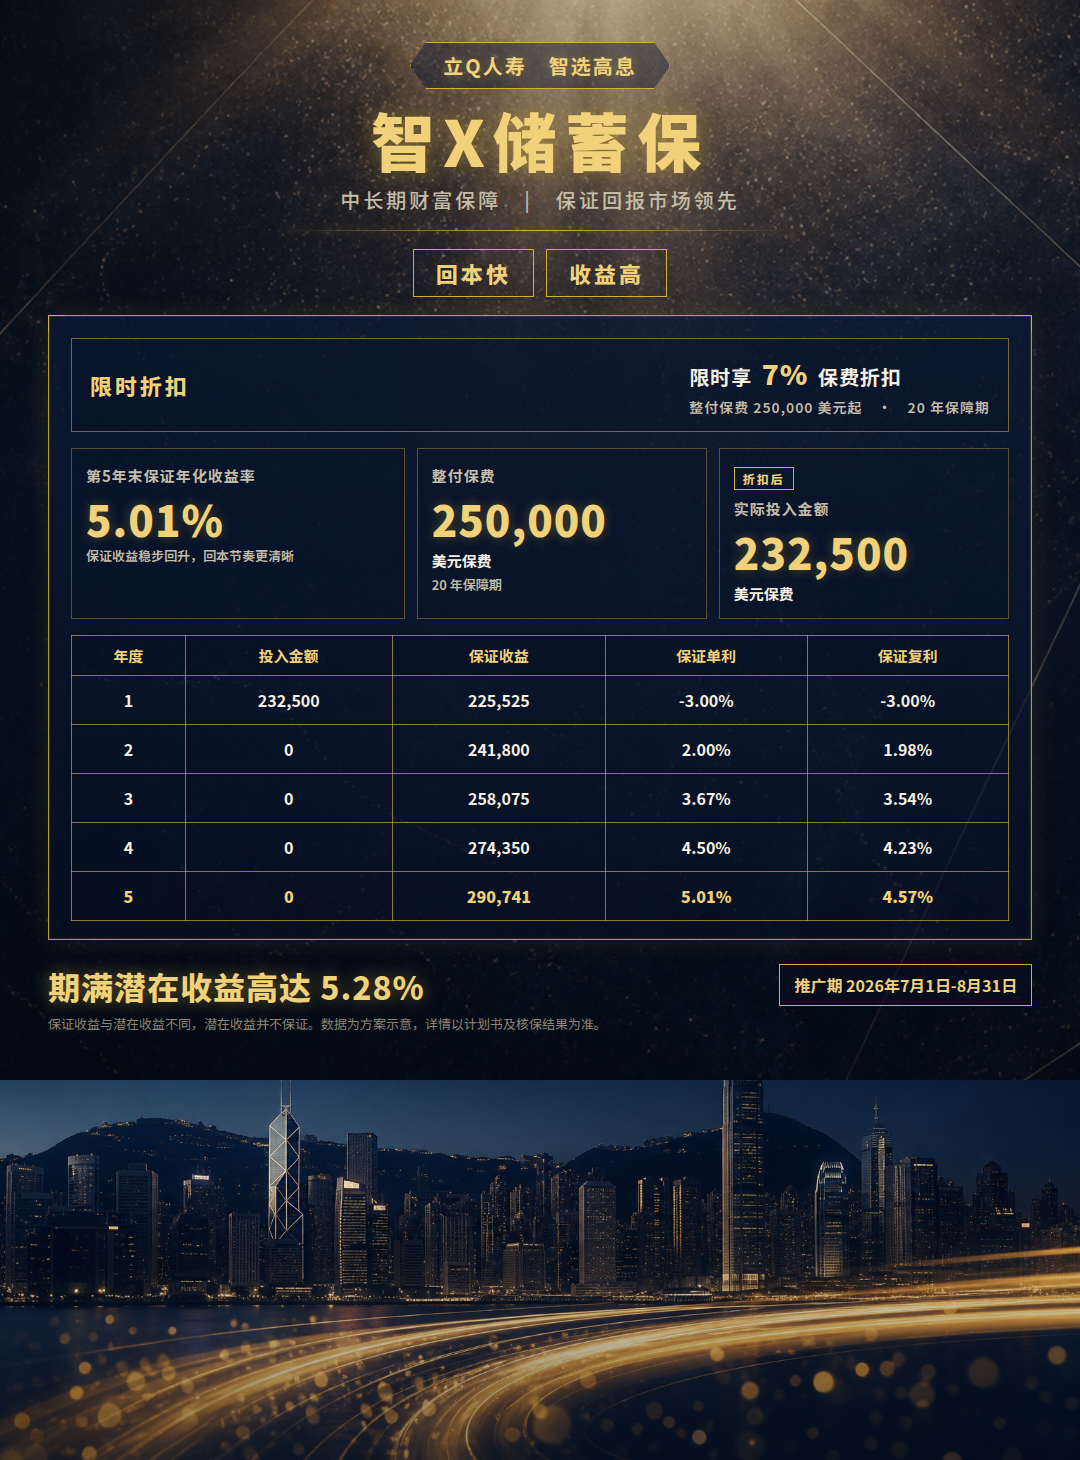
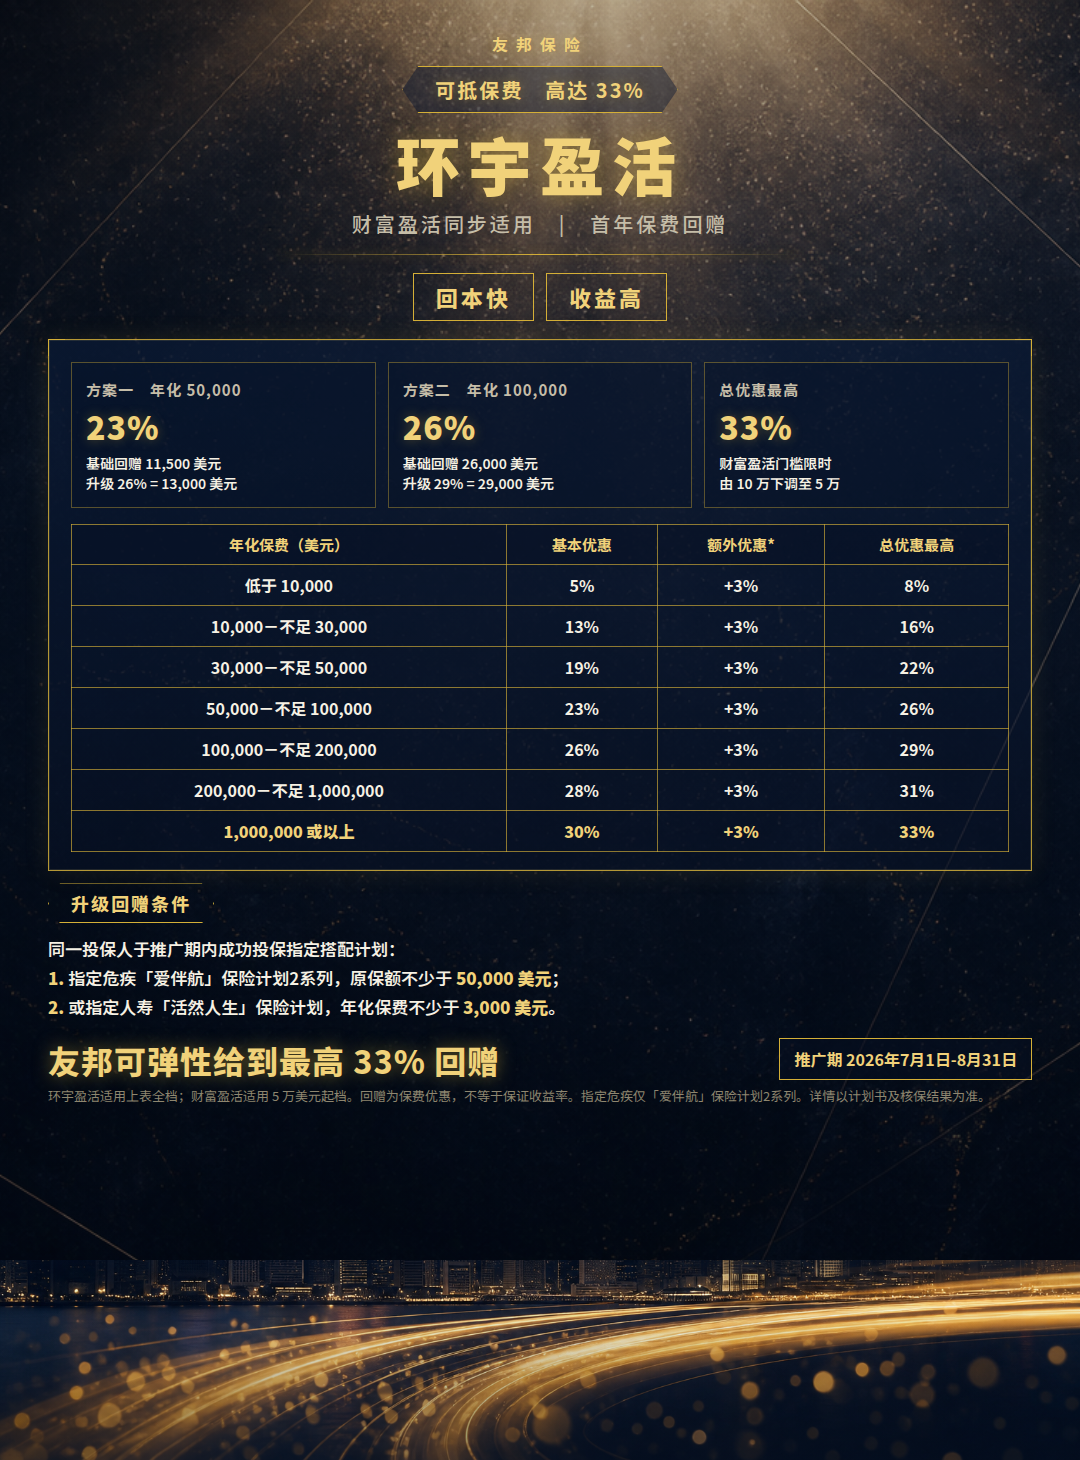
Rebrand posters to AIA 友邦环宇盈活
Drop the fictional 立Q/智X names. Both navy-gold posters now use 友邦保险 with 环宇盈活/财富盈活 rebate copy.

Changed region(s): [[0.0, 0.0, 1.0, 0.9555], [0.7333, 0.4623, 0.7639, 0.5856], [0.0917, 0.4315, 0.1528, 0.4623]]

diff --git a/design/poster/zhi-x-savings.html b/design/poster/zhi-x-savings.html
@@ -2,7 +2,7 @@
 <html lang="zh-CN">
 <head>
   <meta charset="UTF-8" />
-  <title>智X储蓄保</title>
+  <title>友邦保险 · 环宇盈活</title>
   <style>
     @font-face {
       font-family: "Noto Sans SC";
@@ -38,7 +38,7 @@
     .skyline {
       position: absolute;
       left: 0; right: 0; bottom: 0;
-      height: 380px;
+      height: 200px;
       background:
         linear-gradient(180deg, rgba(7,20,40,.25) 0%, rgba(7,20,40,0) 18%, rgba(7,20,40,.45) 100%),
         url("./assets/skyline-gold-trails.jpg") center bottom / cover no-repeat;
@@ -50,10 +50,19 @@
       position: relative;
       z-index: 2;
       height: 100%;
-      padding: 42px 48px 12px;
+      padding: 32px 48px 12px;
       display: flex;
       flex-direction: column;
       align-items: center;
+    }
+
+    .brand {
+      font-size: 16px;
+      font-weight: 700;
+      letter-spacing: 8px;
+      color: var(--gold-2);
+      margin-bottom: 10px;
+      text-shadow: 0 0 12px rgba(212,175,55,.35);
     }
 
     .hex {
@@ -131,49 +140,9 @@
     .panel::before { top: -1px; left: -1px; border-right: 0; border-bottom: 0; }
     .panel::after { top: -1px; right: -1px; border-left: 0; border-bottom: 0; }
 
-    .discount {
-      display: flex;
-      align-items: center;
-      justify-content: space-between;
-      gap: 16px;
-      border: 1px solid rgba(212,175,55,.55);
-      background: rgba(7,16,36,.35);
-      padding: 14px 18px;
-      margin-bottom: 16px;
-    }
-
-    .discount .ttl {
-      color: var(--gold-2);
-      font-size: 22px;
-      font-weight: 800;
-      letter-spacing: 3px;
-      white-space: nowrap;
-    }
-
-    .discount .copy {
-      font-size: 20px;
-      font-weight: 700;
-      color: var(--ivory);
-      letter-spacing: 1px;
-    }
-
-    .discount b {
-      color: var(--gold-2);
-      font-size: 28px;
-      margin: 0 4px;
-    }
-
-    .discount small {
-      display: block;
-      margin-top: 4px;
-      font-size: 14px;
-      color: var(--mute);
-      font-weight: 600;
-    }
-
     .stats {
       display: grid;
-      grid-template-columns: 1.15fr 1fr 1fr;
+      grid-template-columns: 1fr 1fr 1fr;
       gap: 12px;
     }
 
@@ -181,7 +150,6 @@
       border: 1px solid rgba(212,175,55,.4);
       padding: 16px 14px 14px;
       background: rgba(7,16,36,.35);
-      min-height: 148px;
     }
 
     .stat .k {
@@ -192,38 +160,21 @@
     }
 
     .stat .v {
-      margin-top: 10px;
+      margin-top: 8px;
       color: var(--gold-2);
-      font-size: 42px;
+      font-size: 32px;
       font-weight: 900;
       letter-spacing: 1px;
       text-shadow: 0 0 12px rgba(212,175,55,.35);
-      line-height: 1.1;
-    }
-
-    .stat .u {
-      margin-top: 8px;
-      font-size: 15px;
-      color: var(--ivory);
-      font-weight: 700;
+      line-height: 1.15;
     }
 
     .stat .h {
-      margin-top: 4px;
-      font-size: 13px;
-      color: var(--mute);
+      margin-top: 8px;
+      font-size: 14px;
+      color: var(--ivory);
       font-weight: 600;
-    }
-
-    .stat.hot .flag {
-      display: inline-block;
-      border: 1px solid var(--gold);
-      color: var(--gold-2);
-      font-size: 12px;
-      font-weight: 800;
-      letter-spacing: 2px;
-      padding: 2px 8px;
-      margin-bottom: 8px;
+      line-height: 1.45;
     }
 
     table {
@@ -248,7 +199,7 @@
     td {
       font-size: 16px;
       font-weight: 700;
-      padding: 12px 4px;
+      padding: 8px 4px;
       color: var(--ivory);
     }
 
@@ -257,9 +208,32 @@
       font-weight: 900;
     }
 
+    .cond-wrap { width: 100%; margin-top: 12px; }
+
+    .cond-title {
+      display: inline-flex;
+      color: var(--gold-2);
+      border: 1.5px solid var(--gold);
+      padding: 6px 22px;
+      font-size: 18px;
+      font-weight: 800;
+      letter-spacing: 2px;
+      clip-path: polygon(12px 0, calc(100% - 12px) 0, 100% 50%, calc(100% - 12px) 100%, 12px 100%, 0 50%);
+      margin-bottom: 12px;
+    }
+
+    .cond {
+      font-size: 17px;
+      font-weight: 600;
+      line-height: 1.7;
+      color: var(--ivory);
+    }
+
+    .cond b { color: var(--gold-2); }
+
     .foot {
       width: 100%;
-      margin-top: 18px;
+      margin-top: 10px;
       padding-top: 6px;
       display: flex;
       align-items: flex-end;
@@ -286,16 +260,17 @@
       white-space: nowrap;
     }
 
-    .note { width: 100%; margin-top: 8px; font-size: 13px; color: #8e866f; line-height: 1.5; }
+    .note { width: 100%; margin-top: 6px; font-size: 13px; color: #8e866f; line-height: 1.5; }
   </style>
 </head>
 <body>
   <article class="poster">
     <div class="skyline"></div>
     <div class="content">
-      <div class="hex">立Q人寿　智选高息</div>
-      <h1>智X储蓄保</h1>
-      <div class="sub">中长期财富保障　|　保证回报市场领先</div>
+      <div class="brand">友邦保险</div>
+      <div class="hex">可抵保费　高达 33%</div>
+      <h1>环宇盈活</h1>
+      <div class="sub">财富盈活同步适用　|　首年保费回赠</div>
       <div class="hairline"></div>
       <div class="pills">
         <span class="pill">回本快</span>
@@ -303,59 +278,59 @@
       </div>
 
       <section class="panel">
-        <div class="discount">
-          <div class="ttl">限时折扣</div>
-          <div class="copy">
-            限时享 <b>7%</b> 保费折扣
-            <small>整付保费 250,000 美元起　·　20 年保障期</small>
-          </div>
-        </div>
-
         <div class="stats">
           <div class="stat">
-            <div class="k">第5年末保证年化收益率</div>
-            <div class="v">5.01%</div>
-            <div class="h">保证收益稳步回升，回本节奏更清晰</div>
+            <div class="k">方案一　年化 50,000</div>
+            <div class="v">23%</div>
+            <div class="h">基础回赠 11,500 美元<br>升级 26% = 13,000 美元</div>
           </div>
           <div class="stat">
-            <div class="k">整付保费</div>
-            <div class="v">250,000</div>
-            <div class="u">美元保费</div>
-            <div class="h">20 年保障期</div>
+            <div class="k">方案二　年化 100,000</div>
+            <div class="v">26%</div>
+            <div class="h">基础回赠 26,000 美元<br>升级 29% = 29,000 美元</div>
           </div>
-          <div class="stat hot">
-            <div class="flag">折扣后</div>
-            <div class="k">实际投入金额</div>
-            <div class="v">232,500</div>
-            <div class="u">美元保费</div>
+          <div class="stat">
+            <div class="k">总优惠最高</div>
+            <div class="v">33%</div>
+            <div class="h">财富盈活门槛限时<br>由 10 万下调至 5 万</div>
           </div>
         </div>
 
         <table>
           <thead>
             <tr>
-              <th>年度</th>
-              <th>投入金额</th>
-              <th>保证收益</th>
-              <th>保证单利</th>
-              <th>保证复利</th>
+              <th>年化保费（美元）</th>
+              <th>基本优惠</th>
+              <th>额外优惠*</th>
+              <th>总优惠最高</th>
             </tr>
           </thead>
           <tbody>
-            <tr><td>1</td><td>232,500</td><td>225,525</td><td>-3.00%</td><td>-3.00%</td></tr>
-            <tr><td>2</td><td>0</td><td>241,800</td><td>2.00%</td><td>1.98%</td></tr>
-            <tr><td>3</td><td>0</td><td>258,075</td><td>3.67%</td><td>3.54%</td></tr>
-            <tr><td>4</td><td>0</td><td>274,350</td><td>4.50%</td><td>4.23%</td></tr>
-            <tr><td>5</td><td>0</td><td>290,741</td><td>5.01%</td><td>4.57%</td></tr>
+            <tr><td>低于 10,000</td><td>5%</td><td>+3%</td><td>8%</td></tr>
+            <tr><td>10,000－不足 30,000</td><td>13%</td><td>+3%</td><td>16%</td></tr>
+            <tr><td>30,000－不足 50,000</td><td>19%</td><td>+3%</td><td>22%</td></tr>
+            <tr><td>50,000－不足 100,000</td><td>23%</td><td>+3%</td><td>26%</td></tr>
+            <tr><td>100,000－不足 200,000</td><td>26%</td><td>+3%</td><td>29%</td></tr>
+            <tr><td>200,000－不足 1,000,000</td><td>28%</td><td>+3%</td><td>31%</td></tr>
+            <tr><td>1,000,000 或以上</td><td>30%</td><td>+3%</td><td>33%</td></tr>
           </tbody>
         </table>
       </section>
 
+      <div class="cond-wrap">
+        <div class="cond-title">升级回赠条件</div>
+        <div class="cond">
+          同一投保人于推广期内成功投保指定搭配计划：<br>
+          <b>1.</b> 指定危疾「爱伴航」保险计划2系列，原保额不少于 <b>50,000 美元</b>；<br>
+          <b>2.</b> 或指定人寿「活然人生」保险计划，年化保费不少于 <b>3,000 美元</b>。
+        </div>
+      </div>
+
       <footer class="foot">
-        <div class="foot-hl">期满潜在收益高达 5.28%</div>
+        <div class="foot-hl">友邦可弹性给到最高 33% 回赠</div>
         <div class="period">推广期 2026年7月1日-8月31日</div>
       </footer>
-      <p class="note">保证收益与潜在收益不同，潜在收益并不保证。数据为方案示意，详情以计划书及核保结果为准。</p>
+      <p class="note">环宇盈活适用上表全档；财富盈活适用 5 万美元起档。回赠为保费优惠，不等于保证收益率。指定危疾仅「爱伴航」保险计划2系列。详情以计划书及核保结果为准。</p>
     </div>
   </article>
 </body>

diff --git a/design/poster/index.html b/design/poster/index.html
@@ -50,10 +50,19 @@
       position: relative;
       z-index: 2;
       height: 100%;
-      padding: 42px 48px 12px;
+      padding: 32px 48px 12px;
       display: flex;
       flex-direction: column;
       align-items: center;
+    }
+
+    .brand {
+      font-size: 16px;
+      font-weight: 700;
+      letter-spacing: 8px;
+      color: var(--gold-2);
+      margin-bottom: 10px;
+      text-shadow: 0 0 12px rgba(212,175,55,.35);
     }
 
     .hex {
@@ -258,6 +267,7 @@
   <article class="poster">
     <div class="skyline"></div>
     <div class="content">
+      <div class="brand">友邦保险</div>
       <div class="hex">可抵保费　高达 33%</div>
       <h1>保费回赠方案</h1>
       <div class="sub">首年保费回赠　|　组合配置更具优势</div>
